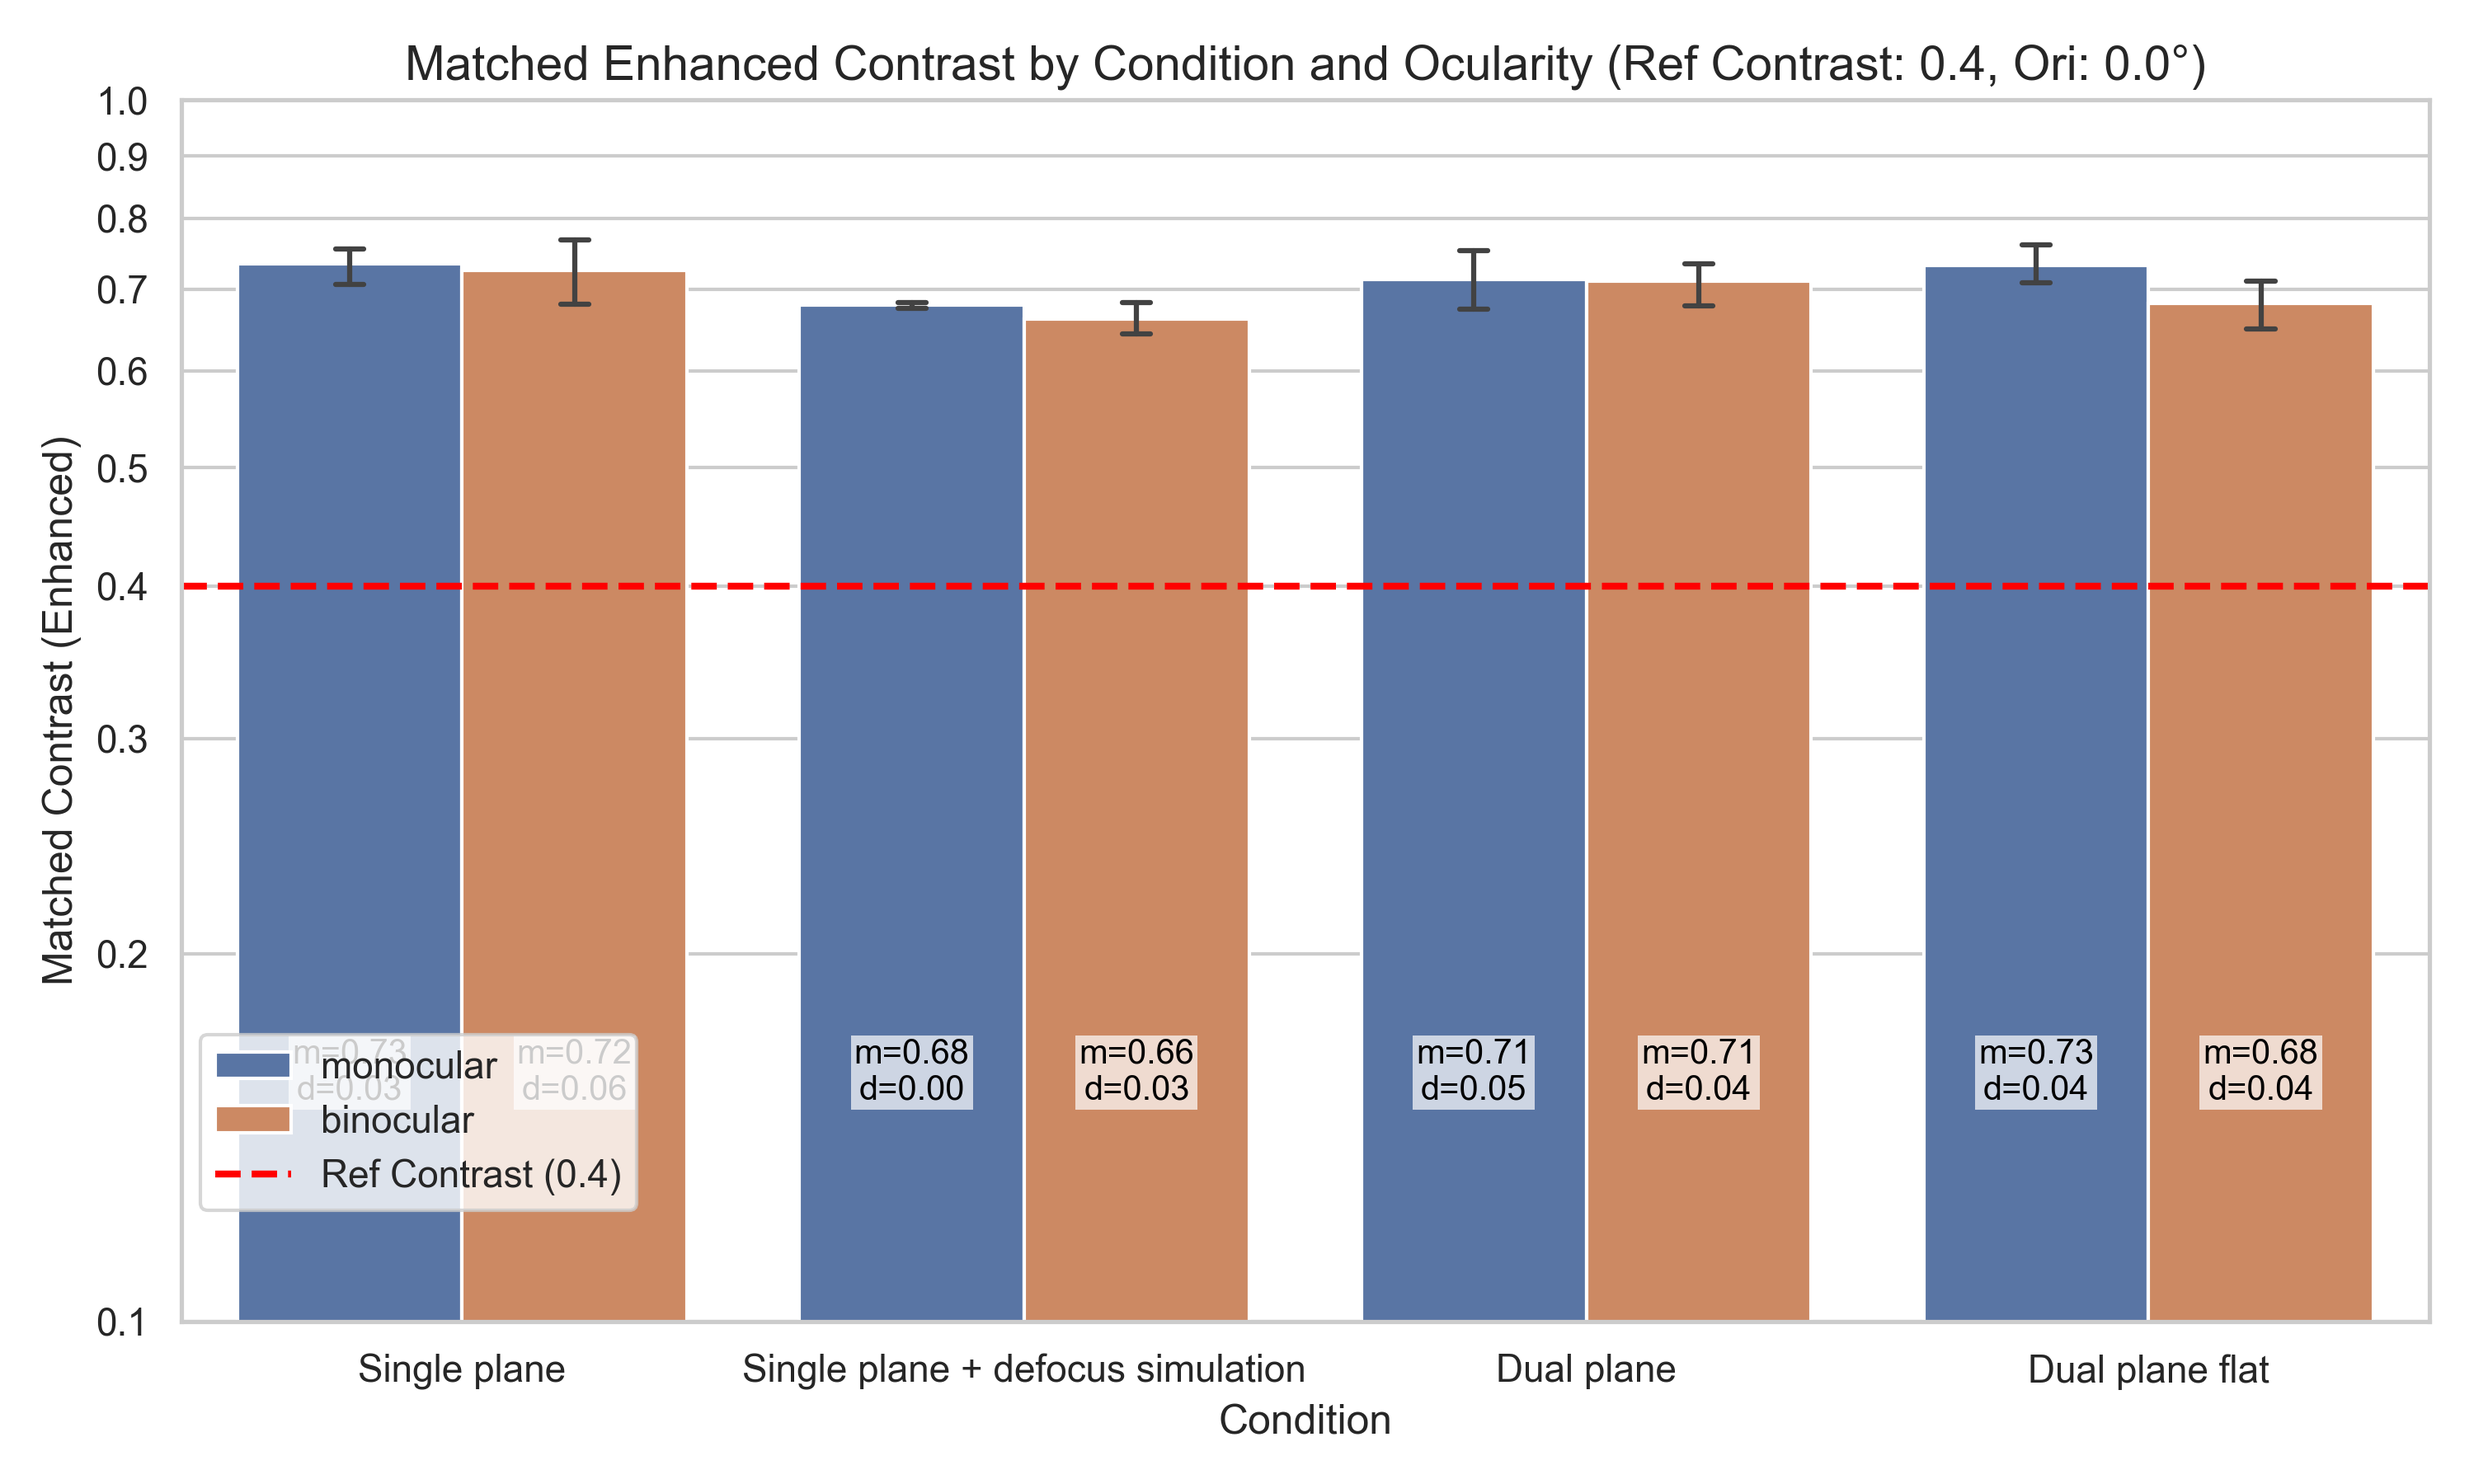
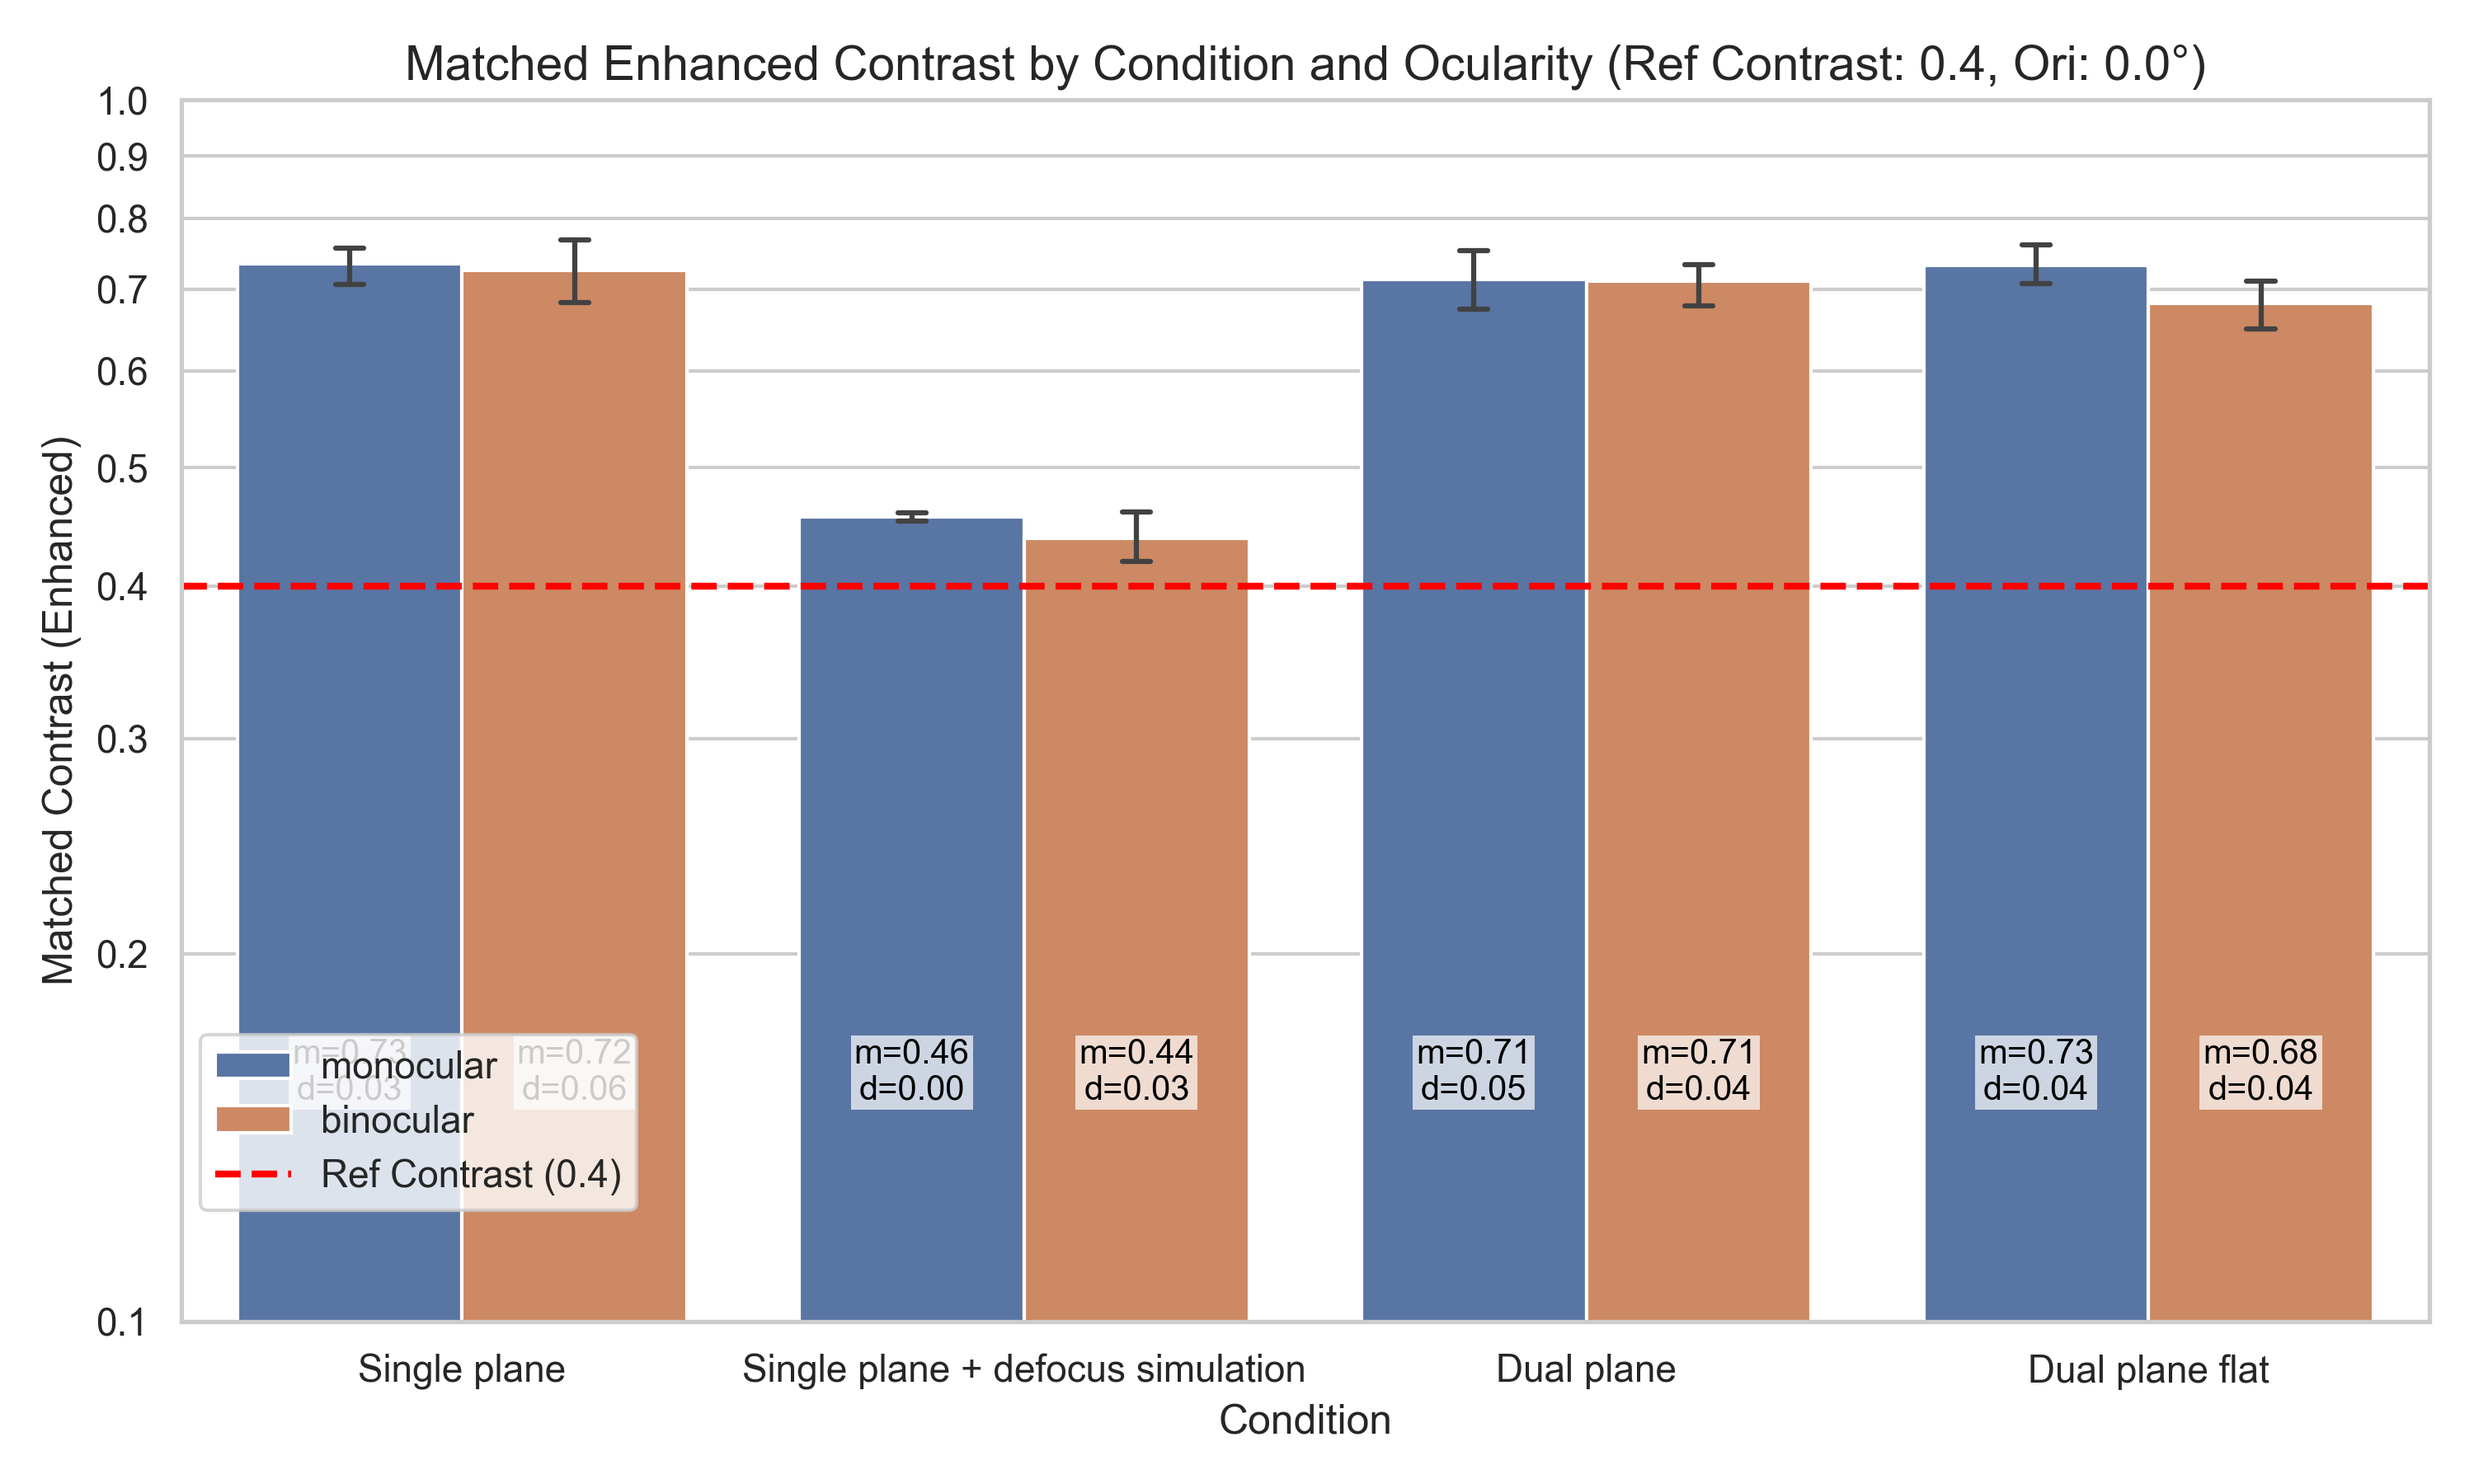
feat: エンハンスコントラストをSP条件でブラー考慮

Changed region(s): [[0.31, 0.1867, 0.527, 0.3733], [0.465, 0.6844, 0.496, 0.7156], [0.372, 0.6844, 0.403, 0.7156]]

diff --git a/src/experiment/pre-analyze/pre-analyze-matching-ar.py b/src/experiment/pre-analyze/pre-analyze-matching-ar.py
@@ -6,6 +6,9 @@ import seaborn as sns
 import os
 import glob
 import argparse
+import math
+import numpy as np
+import torch
 
 # 解析対象のフォルダ
 script_dir = os.path.dirname(os.path.abspath(__file__))
@@ -80,7 +83,7 @@ print("\n--- Generating bar charts (AR Extended Contrast) ---")
         
 # 描画用の設定
 sns.set_theme(style="whitegrid")
-condition_order = ["Single plane", "Single plane + defocus simulation", "OST-AR"]
+condition_order = ["Single plane", "Single plane + defocus simulation", "Dual plane", "Dual plane flat"]
 ocularity_order = ["monocular", "binocular"]
 
 unique_ref_contrasts = sorted(final_df['Ref_Contrast'].dropna().unique(), reverse=True)
@@ -159,14 +162,110 @@ for ref_c in unique_ref_contrasts:
         plt.close(fig)
 
 # --- 追加: エンハンスコントラストの計算とグラフ出力 ---
-# 背景ノイズのコントラスト（CSVに含まれていない場合は1.0と仮定）
-C_bg = 1.0
+_blur_attenuation_cache = {}
 
-# エンハンスコントラストの計算式:
-# Y_max = L_fg * (1 + C_fg) + L_bg * (1 + C_bg)
-# Y_min = L_fg * (1 - C_fg) + L_bg * (1 - C_bg)
-# C_enhanced = (Y_max - Y_min) / (Y_max + Y_min) = (L_fg * C_fg + L_bg * C_bg) / (L_fg + L_bg)
-final_df['Matched_Contrast_Enhanced'] = (final_df['Matched_Contrast'] * L_fg + C_bg * L_bg) / (L_fg + L_bg)
+def calculate_blur_attenuation_cached(pd_mm, d_fg=50.0, d_bg=150.0, f_center_cpd=4.0):
+    pd_mm_round = round(pd_mm, 2)
+    if pd_mm_round in _blur_attenuation_cache:
+        return _blur_attenuation_cache[pd_mm_round]
+        
+    if pd_mm_round <= 0:
+        return 1.0
+        
+    # パラメータ設定
+    PIXELS_PER_CM = 1 / 0.02331
+    ppd_fg = PIXELS_PER_CM * d_fg * math.tan(math.radians(1.0))
+    width_deg = 7.9
+    height_deg = 3.95
+    width_fg = int(width_deg * ppd_fg)
+    height_fg = int(height_deg * ppd_fg)
+    
+    # 基準ノイズ画像の生成
+    np.random.seed(42)
+    white_noise = np.random.normal(0, 1, (height_fg, width_fg))
+    ft_noise = np.fft.fftshift(np.fft.fft2(white_noise))
+    
+    fx = np.fft.fftshift(np.fft.fftfreq(width_fg, d=1/ppd_fg))
+    fy = np.fft.fftshift(np.fft.fftfreq(height_fg, d=1/ppd_fg))
+    FX, FY = np.meshgrid(fx, fy)
+    R = np.sqrt(FX**2 + FY**2)
+    
+    bandwidth_octave = 1.0
+    f_min = f_center_cpd / (2 ** (bandwidth_octave / 2))
+    f_max = f_center_cpd * (2 ** (bandwidth_octave / 2))
+    mask = (R >= f_min) & (R <= f_max)
+    
+    ft_filtered = ft_noise * mask
+    noise_filtered = np.real(np.fft.ifft2(np.fft.ifftshift(ft_filtered)))
+    
+    max_val = np.max(np.abs(noise_filtered))
+    if max_val > 0:
+        noise_filtered = noise_filtered / max_val
+        
+    L_bg_temp = 15.0
+    C_bg_orig = 1.0
+    lum_noise = L_bg_temp * (1.0 + C_bg_orig * noise_filtered)
+    
+    rms_orig = np.std(lum_noise)
+    
+    # ブラーの適用
+    D = abs(1/(d_fg/100.0) - 1/(d_bg/100.0))
+    rad2deg = 180.0 / math.pi
+    mm = 1e-3
+    bd_deg = rad2deg * D * pd_mm_round * mm
+    DEFOCUS_BLUR_SCALE_FACTOR = 0.55
+    sigma = DEFOCUS_BLUR_SCALE_FACTOR * bd_deg / 2.0
+    
+    if sigma <= 0:
+        _blur_attenuation_cache[pd_mm_round] = 1.0
+        return 1.0
+        
+    device = torch.device("cuda" if torch.cuda.is_available() else "cpu")
+    img_tensor = torch.from_numpy(lum_noise.astype(np.float32)).to(device)
+    h, w = img_tensor.shape[-2:]
+    
+    x_deg = torch.linspace(-w/2/ppd_fg, w/2/ppd_fg, w).to(device)
+    y_deg = torch.linspace(-h/2/ppd_fg, h/2/ppd_fg, h).to(device)
+    Y_deg, X_deg = torch.meshgrid(y_deg, x_deg, indexing='ij')
+    
+    psf = torch.exp(-((torch.sqrt(X_deg**2 + Y_deg**2)) ** 2) / (2 * sigma ** 2))
+    psf = psf / torch.sum(psf)
+    
+    def FT2(tensor):
+        tensor_shift = torch.fft.ifftshift(tensor, dim=(-2,-1))
+        tensor_ft_shift = torch.fft.fft2(tensor_shift, norm='ortho')
+        return torch.fft.fftshift(tensor_ft_shift, dim=(-2,-1))
+
+    def iFT2(tensor):
+        tensor_shift = torch.fft.ifftshift(tensor, dim=(-2,-1))
+        tensor_ift_shift = torch.fft.ifft2(tensor_shift, norm='ortho')
+        return torch.fft.fftshift(tensor_ift_shift, dim=(-2,-1))
+
+    img_ft = FT2(img_tensor)
+    psf_ft = FT2(psf)
+    blur_tensor = torch.abs(iFT2(img_ft * psf_ft))
+    
+    blur_tensor = blur_tensor * torch.sum(img_tensor) / (torch.sum(blur_tensor) + 1e-8)
+    lum_blur = blur_tensor.cpu().numpy()
+    
+    rms_blur = np.std(lum_blur)
+    
+    val = float(rms_blur / rms_orig) if rms_orig > 0 else 1.0
+    _blur_attenuation_cache[pd_mm_round] = val
+    return val
+
+def get_effective_c_bg(row):
+    if row['Condition'] == 'Single plane + defocus simulation':
+        pd_r = row.get('PD_Right', 0)
+        pd_l = row.get('PD_Left', 0)
+        pds = [p for p in (pd_r, pd_l) if pd.notna(p) and p > 0]
+        pd_mean = sum(pds) / len(pds) if pds else 4.0
+        return calculate_blur_attenuation_cached(pd_mean)
+    return 1.0
+
+print("\n--- Calculating effective background contrast and Enhanced Contrast ---")
+final_df['Effective_C_bg'] = final_df.apply(get_effective_c_bg, axis=1)
+final_df['Matched_Contrast_Enhanced'] = (final_df['Matched_Contrast'] * L_fg + final_df['Effective_C_bg'] * L_bg) / (L_fg + L_bg)
 
 print("\n--- Generating bar charts (Enhanced Contrast) ---")
 for ref_c in unique_ref_contrasts:
